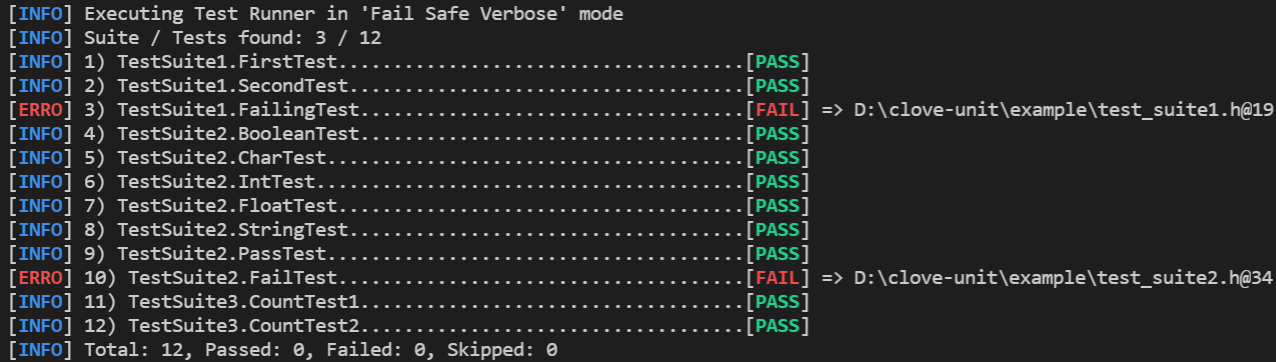
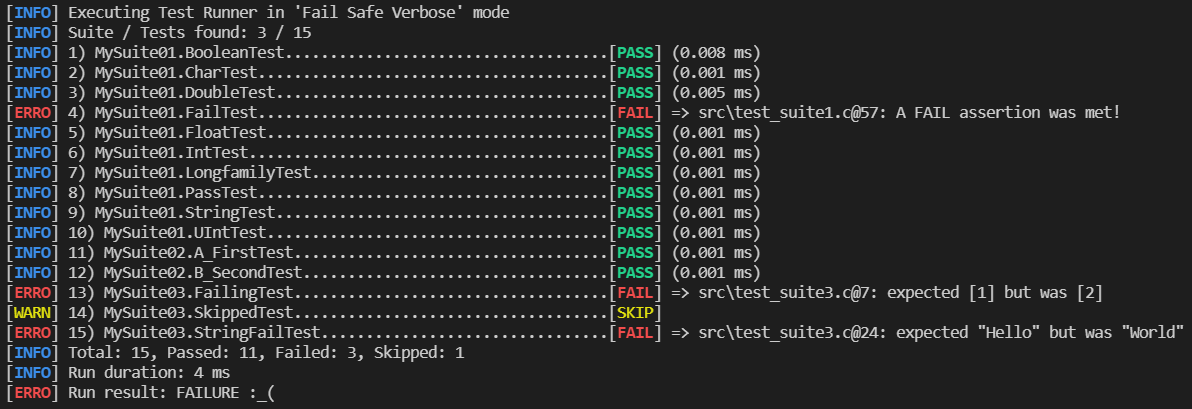
#22 remove manual example and refactored the auto one. Updated screen-shoot

Changed region(s): [[0.0, 0.0, 1.0, 1.0], [0.5587, 0.8812, 0.6518, 0.942]]

diff --git a/examples/clove101/src/test_suite3.c b/examples/clove101/src/test_suite3.c
@@ -1,4 +1,4 @@
-#define CLOVE_SUITE_NAME MySecondSuite
+#define CLOVE_SUITE_NAME MySuite03
 #include "clove-unit.h"
 
 CLOVE_TEST(FailingTest) {
@@ -7,8 +7,8 @@ CLOVE_TEST(FailingTest) {
     CLOVE_INT_EQ(a, b);
 }
 
-
-CLOVE_TEST(ChecNotNull) {
+/*
+CLOVE_TEST(CheckNotNull) {
     int* null_ptr = NULL;
     CLOVE_NOT_NULL(null_ptr);
 }
@@ -17,6 +17,11 @@ CLOVE_TEST(ChecNotNull) {
 CLOVE_TEST(CheckNull) {
     int myvalue = 1;
     CLOVE_NULL(&myvalue);
+}
+*/
+
+CLOVE_TEST(StringFailTest) {
+    CLOVE_STRING_EQ("Hello", "World");
 }
 
 CLOVE_TEST(SkippedTest) {

diff --git a/examples/clove101/src/test_suite1.c b/examples/clove101/src/test_suite1.c
@@ -1,4 +1,4 @@
-#define CLOVE_ENABLE_MANUAL
+#define CLOVE_SUITE_NAME MySuite01
 #include "clove-unit.h"
 
 CLOVE_TEST(BooleanTest) {
@@ -55,13 +55,4 @@ CLOVE_TEST(PassTest) {
 
 CLOVE_TEST(FailTest) {
     CLOVE_FAIL();
-}
-
-CLOVE_SUITE(TestSuite2) {
-    CLOVE_SUITE_TESTS(
-        BooleanTest, CharTest, 
-        IntTest, UIntTest, LongfamilyTest,
-        FloatTest, DoubleTest, StringTest, 
-        PassTest, FailTest
-    );
 }

diff --git a/examples/clove101/src/test_suite2.c b/examples/clove101/src/test_suite2.c
@@ -1,4 +1,4 @@
-#define CLOVE_SUITE_NAME MyVeryFirstSuite
+#define CLOVE_SUITE_NAME MySuite02
 #include "clove-unit.h"
 
 int setup_once_count = 0;
